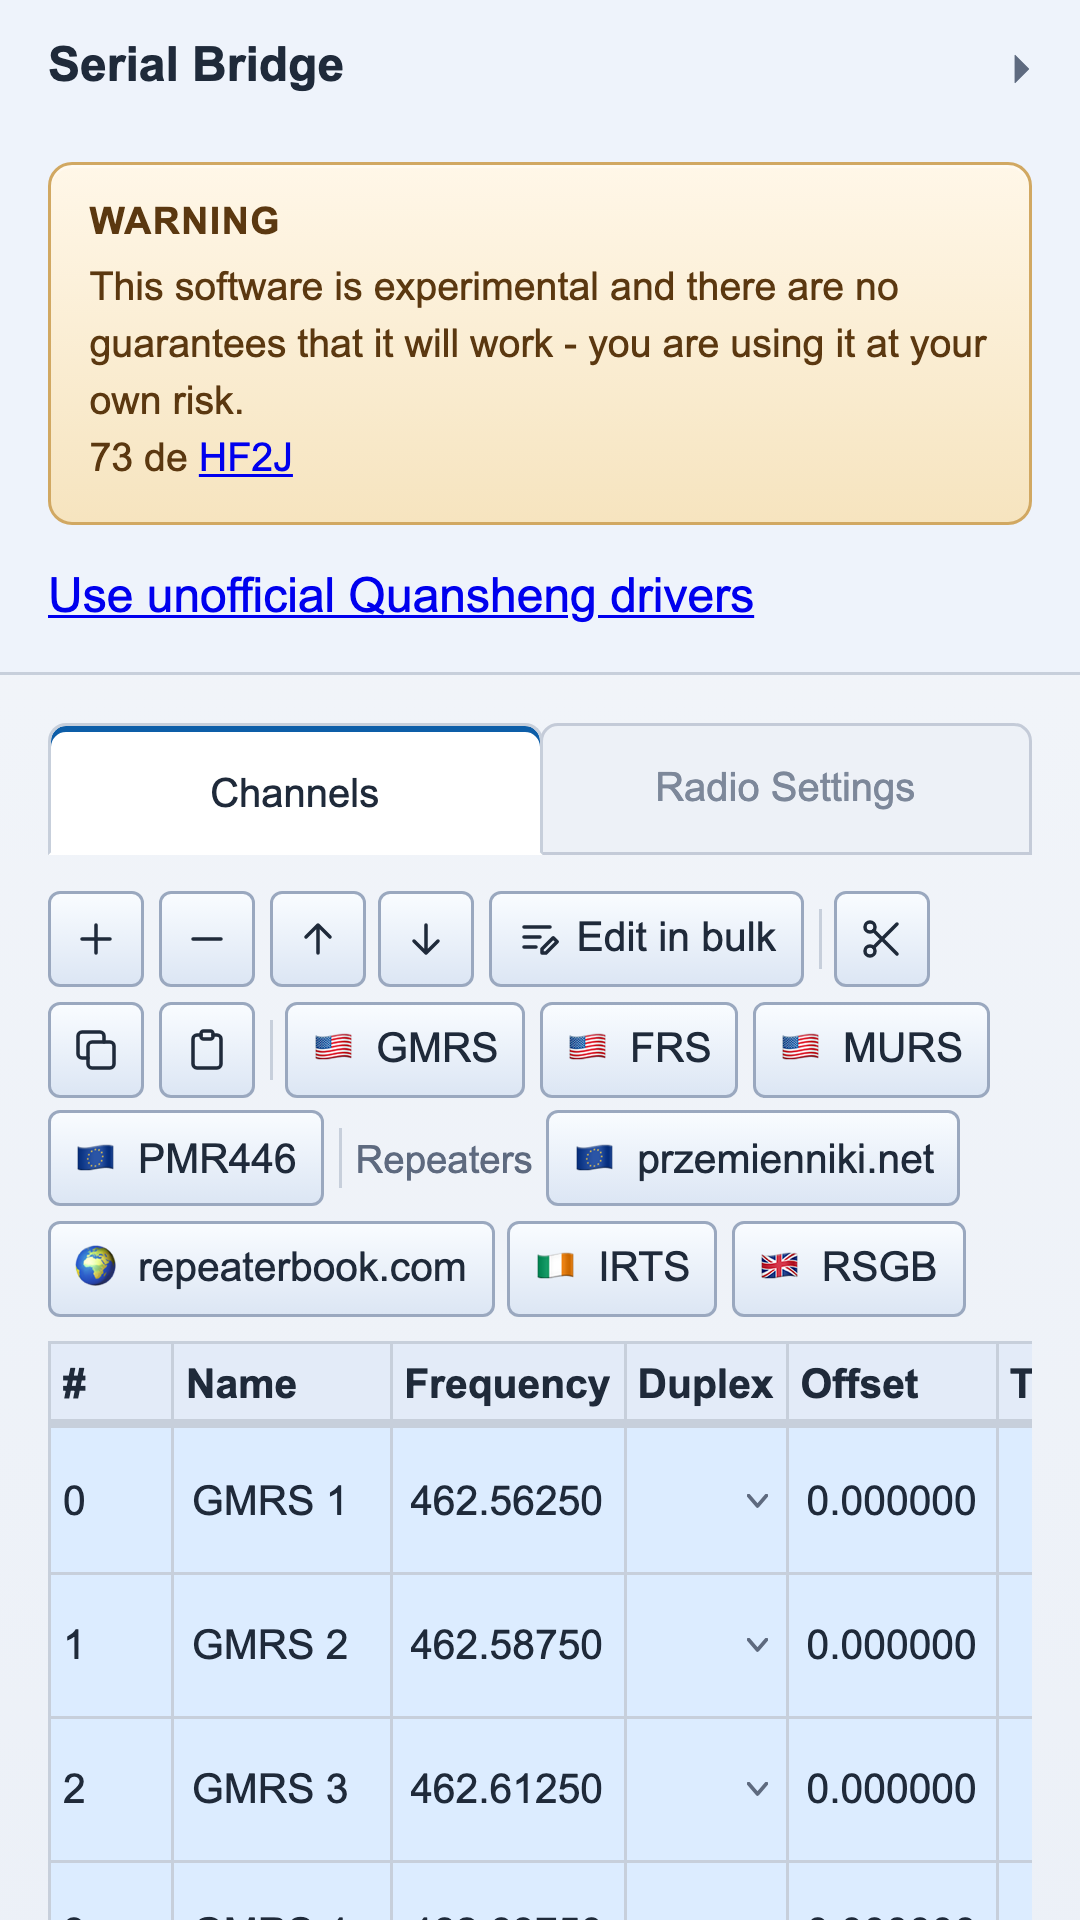
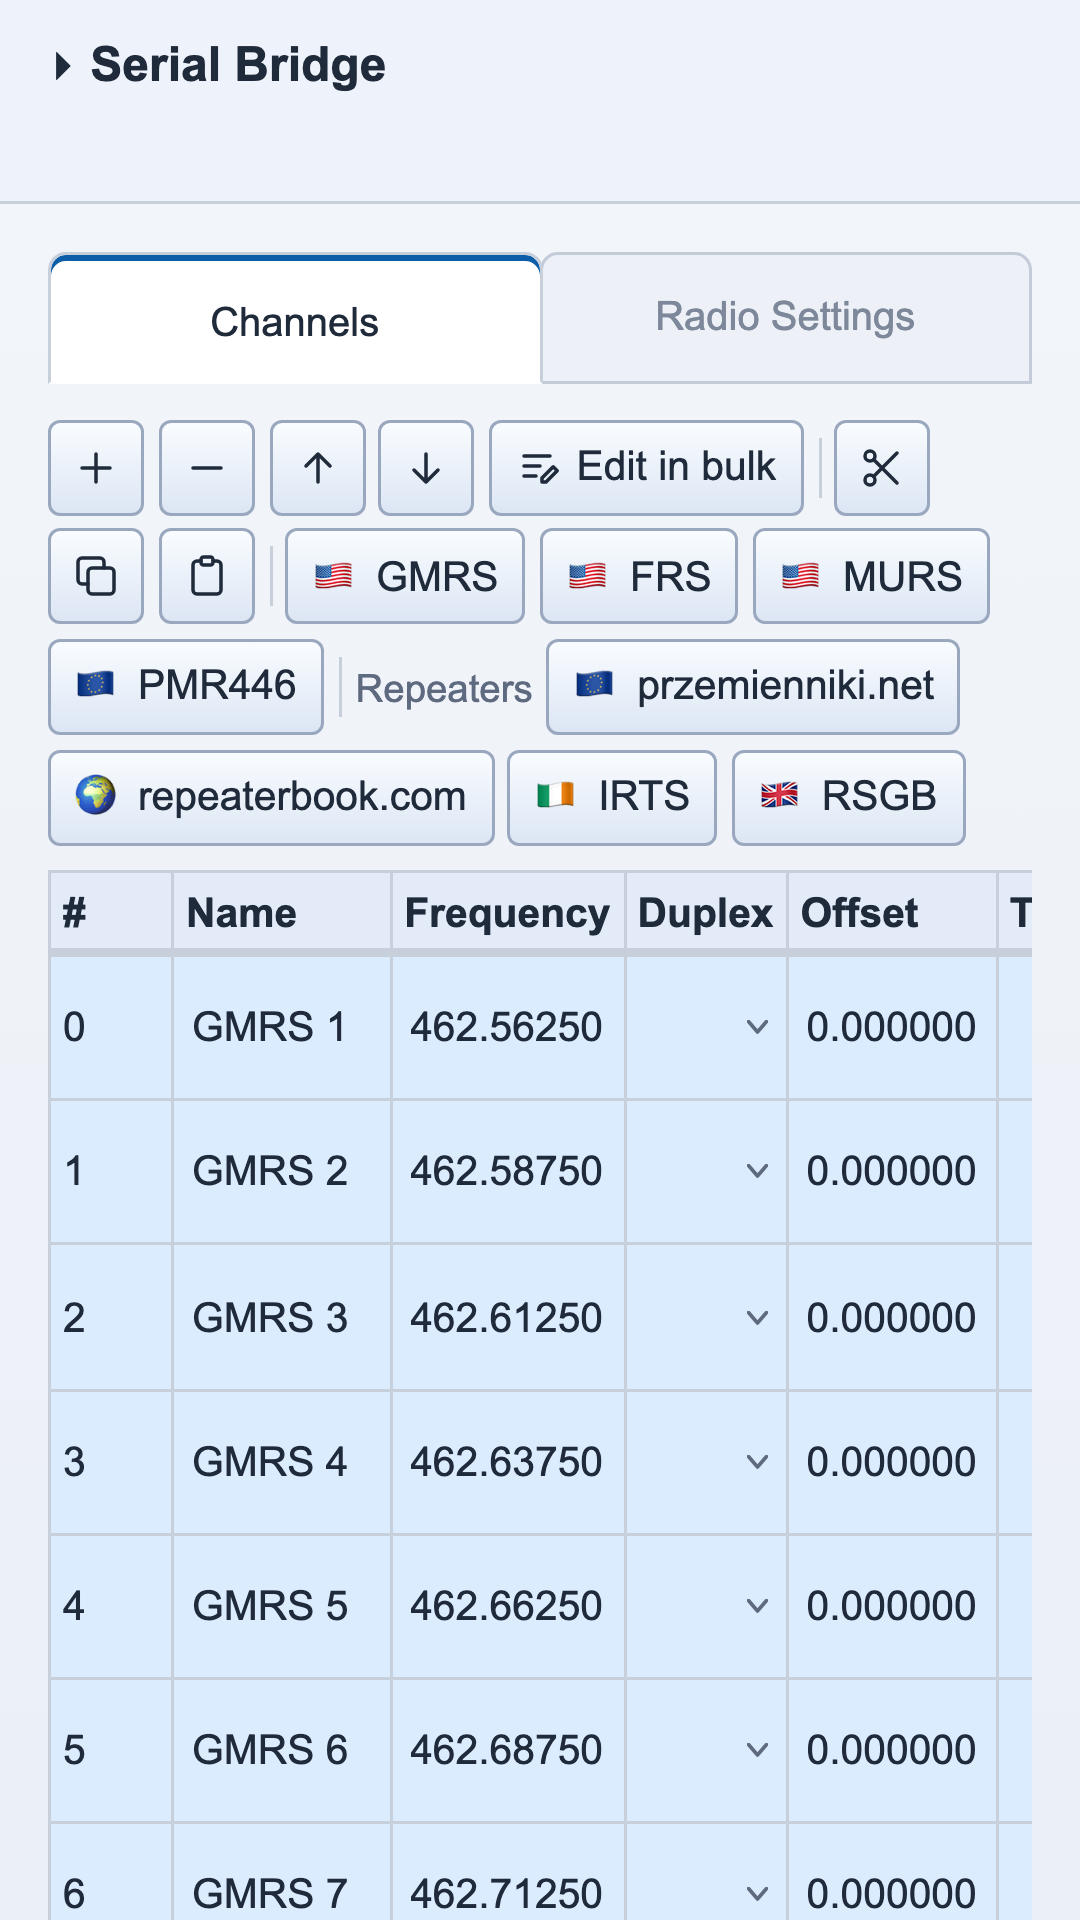
Query live RepeaterBook for the Play screenshot with the bypass token
The RepeaterBook shot now queries the real directory through
api.webchirp.org instead of invented sample repeaters: the dev server
passes TURNSTILE_BYPASS_TOKEN to the page in place of the bot check, and
the API admits localhost. The script stops before any shot when the token
is unset. With request interception gone, the DevTools client no longer
dispatches events.

Shots 1 and 2 are recaptured: the folded Serial Bridge now hides the
warning and driver links too.

diff --git a/scripts/play-store-screenshots.ts b/scripts/play-store-screenshots.ts
@@ -6,14 +6,14 @@
 //   3_repeaters.png the RepeaterBook query around London, repeaters on its map
 //   4_settings.png  a Baofeng UV-5R image from CHIRP's tests, Radio Settings
 //
-// Usage: npm run screenshots (after the site's own, scripts/update-screenshots.ts)
+// Usage: TURNSTILE_BYPASS_TOKEN=<token> npm run screenshots (after the site's
+// own, scripts/update-screenshots.ts)
 //
 // Each shot starts from a freshly loaded page, so none inherits another's
-// radio, channels or folded section. api.webchirp.org only answers the
-// production origins, and RepeaterBook's query sits behind a bot check, so
-// its answers here come from LONDON_SAMPLE_REPEATERS below: invented
-// repeaters, not RepeaterBook's data, at real places around London so the map
-// reads true.
+// radio, channels or folded section. The RepeaterBook shot queries the real
+// directory through api.webchirp.org, which needs the API's Turnstile bypass
+// token: the dev server reads TURNSTILE_BYPASS_TOKEN and hands it to the page
+// in place of the bot check (scripts/dev-turnstile-bypass.ts).
 
 import fs from "node:fs";
 import path from "node:path";
@@ -30,6 +30,7 @@ import {
   selectedDriverAnswered,
   selectRadioThroughSearch,
 } from "./app-driver.ts";
+import { readTurnstileBypassToken } from "./dev-turnstile-bypass.ts";
 import { evaluate, repoRootDir, startHeadlessApp, waitFor, waitForAppReady } from "./headless-chrome.ts";
 import type { CdpClient } from "./headless-chrome.ts";
 import { ANDROID_APP_LAUNCH_FLAG } from "../web/js/android-app.ts";
@@ -44,94 +45,6 @@ const VIEWPORT = { width: 360, height: 640, deviceScaleFactor: 3, mobile: true }
 
 const SCREENSHOT_RADIO_QUERY = "Baofeng UV-5R";
 const UV5R_IMAGE = path.join(repoRootDir, "chirp", "tests", "images", "Baofeng_UV-5R.img");
-
-// [callsign, output MHz, input MHz, CTCSS Hz, latitude, longitude, place].
-// UK 2 m repeaters listen 600 kHz below their output, 70 cm ones 1.6 MHz
-// above. The DEMO callsigns cannot be mistaken for real ones.
-const LONDON_SAMPLE_REPEATERS: Array<[string, string, string, string, number, number, string]> = [
-  ["DEMO01", "145.66250", "145.06250", "82.5", 51.5155, -0.0922, "City of London"],
-  ["DEMO02", "433.12500", "434.72500", "82.5", 51.5462, -0.1033, "Islington"],
-  ["DEMO03", "145.73750", "145.13750", "82.5", 51.4613, -0.1156, "Brixton"],
-  ["DEMO04", "433.27500", "434.87500", "82.5", 51.5574, -0.2829, "Wembley"],
-  ["DEMO05", "145.60000", "145.00000", "77.0", 51.6538, -0.2005, "Barnet"],
-  ["DEMO06", "433.05000", "434.65000", "82.5", 51.3762, -0.0982, "Croydon"],
-  ["DEMO07", "145.70000", "145.10000", "82.5", 51.5390, 0.0480, "East Ham"],
-  ["DEMO08", "433.35000", "434.95000", "94.8", 51.5751, 0.1821, "Romford"],
-  ["DEMO09", "145.63750", "145.03750", "77.0", 51.4613, -0.3037, "Richmond"],
-  ["DEMO10", "433.17500", "434.77500", "82.5", 51.4054, 0.0158, "Bromley"],
-  ["DEMO11", "145.77500", "145.17500", "71.9", 51.6564, -0.3903, "Watford"],
-  ["DEMO12", "433.07500", "434.67500", "82.5", 51.4545, 0.1505, "Bexleyheath"],
-  ["DEMO13", "145.67500", "145.07500", "94.8", 51.7520, -0.3360, "St Albans"],
-  ["DEMO14", "433.22500", "434.82500", "103.5", 51.2362, -0.5704, "Guildford"],
-  ["DEMO15", "145.71250", "145.11250", "71.9", 51.6201, 0.3060, "Brentwood"],
-];
-
-// The RXF answer the RepeaterBook route gives, in the radio's perspective
-// (rx is the repeater's output), as tests/support/fixtures/rxf-repeaterbook.xml
-// describes the live feed.
-function londonSampleRxf(): string {
-  const repeaters = LONDON_SAMPLE_REPEATERS.map(([qra, output, input, tone, latitude, longitude, qth]) => [
-    "<repeater>",
-    `<qra>${qra}</qra><id>${qra}-fm</id><status>working</status><mode>fm</mode>`,
-    `<band>${output.startsWith("145") ? "2m" : "70cm"}</band>`,
-    `<qrg type="rx">${output}</qrg><qrg type="tx">${input}</qrg>`,
-    `<country>gb</country><qth>${qth}</qth>`,
-    `<location><latitude>${latitude}</latitude><longitude>${longitude}</longitude></location>`,
-    `<ctcss type="rx">${tone}</ctcss><ctcss type="tx">${tone}</ctcss>`,
-    "</repeater>",
-  ].join(""));
-  return [
-    '<?xml version="1.0" encoding="UTF-8"?>',
-    '<rxf version="1.0"><perspective>radio</perspective><repeaters>',
-    ...repeaters,
-    "</repeaters></rxf>",
-  ].join("\n");
-}
-
-// What each api.webchirp.org route the shots reach answers. The /meta
-// dictionary lists only what the form needs to offer the query.
-const API_ANSWERS: Array<{ path: RegExp; contentType: string; body: () => string }> = [
-  {
-    path: /^\/repeaterbook\/meta$/,
-    contentType: "application/json",
-    body: () => JSON.stringify({
-      filters: {
-        country: ["GB", "IE", "US"],
-        band: ["10m", "6m", "2m", "1.25m", "70cm", "33cm", "23cm"],
-        mode: ["fm", "dstar", "dmr", "fusion", "p25", "m17", "tetra"],
-      },
-    }),
-  },
-  { path: /^\/repeaterbook$/, contentType: "application/xml", body: londonSampleRxf },
-  {
-    path: /^\/cities$/,
-    contentType: "application/json",
-    body: () => JSON.stringify({
-      results: [{
-        id: "2643743", name: "London", region: "England", country: "United Kingdom",
-        cc: "GB", lat: 51.50853, lon: -0.12574,
-      }],
-    }),
-  },
-];
-
-// Answers every paused api.webchirp.org request from API_ANSWERS, and any
-// other route with a 404, so no shot reaches the real API.
-function answerApiRequests(cdp: CdpClient) {
-  cdp.on("Fetch.requestPaused", (params, sessionId) => {
-    const url = new URL(params.request.url);
-    const answer = API_ANSWERS.find((entry) => entry.path.test(url.pathname));
-    void cdp.send("Fetch.fulfillRequest", {
-      requestId: params.requestId,
-      responseCode: answer ? 200 : 404,
-      responseHeaders: [
-        { name: "Content-Type", value: answer ? answer.contentType : "text/plain" },
-        { name: "Access-Control-Allow-Origin", value: "*" },
-      ],
-      body: Buffer.from(answer ? answer.body() : "").toString("base64"),
-    }, sessionId);
-  });
-}
 
 type ShotPage = { cdp: CdpClient; sessionId: string };
 
@@ -199,18 +112,24 @@ const SHOTS: Array<{ file: string; scrollTo?: string; prepare: (page: ShotPage) 
 // Captures every shot in SHOTS, each on a new phone-sized tab opened the way
 // the Android app opens the site.
 async function main() {
+  // The dev server reads the same variable. Checked here too, so a missing
+  // token stops the run before any shot instead of as a refused query in the
+  // third.
+  if (!readTurnstileBypassToken(process.env)) {
+    throw new Error(
+      "Set TURNSTILE_BYPASS_TOKEN to the API's bypass token: the RepeaterBook shot queries the live directory."
+    );
+  }
   fs.mkdirSync(OUTPUT_DIR, { recursive: true });
   const app = await startHeadlessApp();
   try {
     const { cdp } = app;
-    answerApiRequests(cdp);
     for (const shot of SHOTS) {
       const { targetId, sessionId } = await app.openPage();
       await cdp.send("Emulation.setDeviceMetricsOverride", VIEWPORT, sessionId);
       // The listing is en-US: numbers are formatted that way whatever the
       // machine capturing it is set to.
       await cdp.send("Emulation.setLocaleOverride", { locale: "en-US" }, sessionId);
-      await cdp.send("Fetch.enable", { patterns: [{ urlPattern: "https://api.webchirp.org/*" }] }, sessionId);
       // Opened the way the Android app opens it, so the page lays itself out
       // as it does there (no Install app button, for one).
       const url = new URL(app.appUrl);

diff --git a/scripts/headless-chrome.ts b/scripts/headless-chrome.ts
@@ -116,31 +116,22 @@ async function launchChrome(
   return { child, wsUrl };
 }
 
-// What a DevTools Protocol command resolves to, or an event carries: the
-// protocol's own JSON, whose shape depends on the method, so each caller reads
-// the fields it asked for.
+// What a DevTools Protocol command resolves to: the protocol's own JSON, whose
+// shape depends on the method, so each caller reads the fields it asked for.
 export type CdpResult = any;
 
 export class CdpClient {
   socket: WebSocket;
   nextId: number;
   pending: Map<number, { resolve: (result: CdpResult) => void; reject: (error: Error) => void }>;
-  listeners: Map<string, Array<(params: CdpResult, sessionId?: string) => void>>;
 
   constructor(socket: WebSocket) {
     this.socket = socket;
     this.nextId = 1;
     this.pending = new Map();
-    this.listeners = new Map();
     socket.addEventListener("message", (event: MessageEvent) => {
       const message = JSON.parse(String(event.data));
-      if (!message.id) {
-        for (const listener of this.listeners.get(message.method) || []) {
-          listener(message.params, message.sessionId);
-        }
-        return;
-      }
-      const waiter = this.pending.get(message.id);
+      const waiter = message.id ? this.pending.get(message.id) : undefined;
       if (waiter) {
         const { resolve, reject } = waiter;
         this.pending.delete(message.id);
@@ -167,11 +158,6 @@ export class CdpClient {
       this.pending.set(id, { resolve, reject });
       this.socket.send(JSON.stringify({ id, method, params, sessionId }));
     });
-  }
-
-  // Calls listener with every event of this method, from any session.
-  on(method: string, listener: (params: CdpResult, sessionId?: string) => void) {
-    this.listeners.set(method, [...(this.listeners.get(method) || []), listener]);
   }
 
   close() {

diff --git a/android/README.md b/android/README.md
@@ -76,7 +76,8 @@ The Play Store listing -- title, short and full description, phone
 screenshots -- lives in `fastlane/metadata/android/en-US/` and is uploaded
 with [fastlane supply](https://docs.fastlane.tools/actions/supply/). The
 screenshots are captured from the app by `npm run screenshots`, like the
-site's own. The content rating, Data safety form and other declarations are
+site's own; one queries RepeaterBook live, so the run needs the API's
+`TURNSTILE_BYPASS_TOKEN` (see the top-level README). The content rating, Data safety form and other declarations are
 not in it; change those in Play Console.
 
 1. Once, create a Google Cloud service account with a JSON key, invite its
